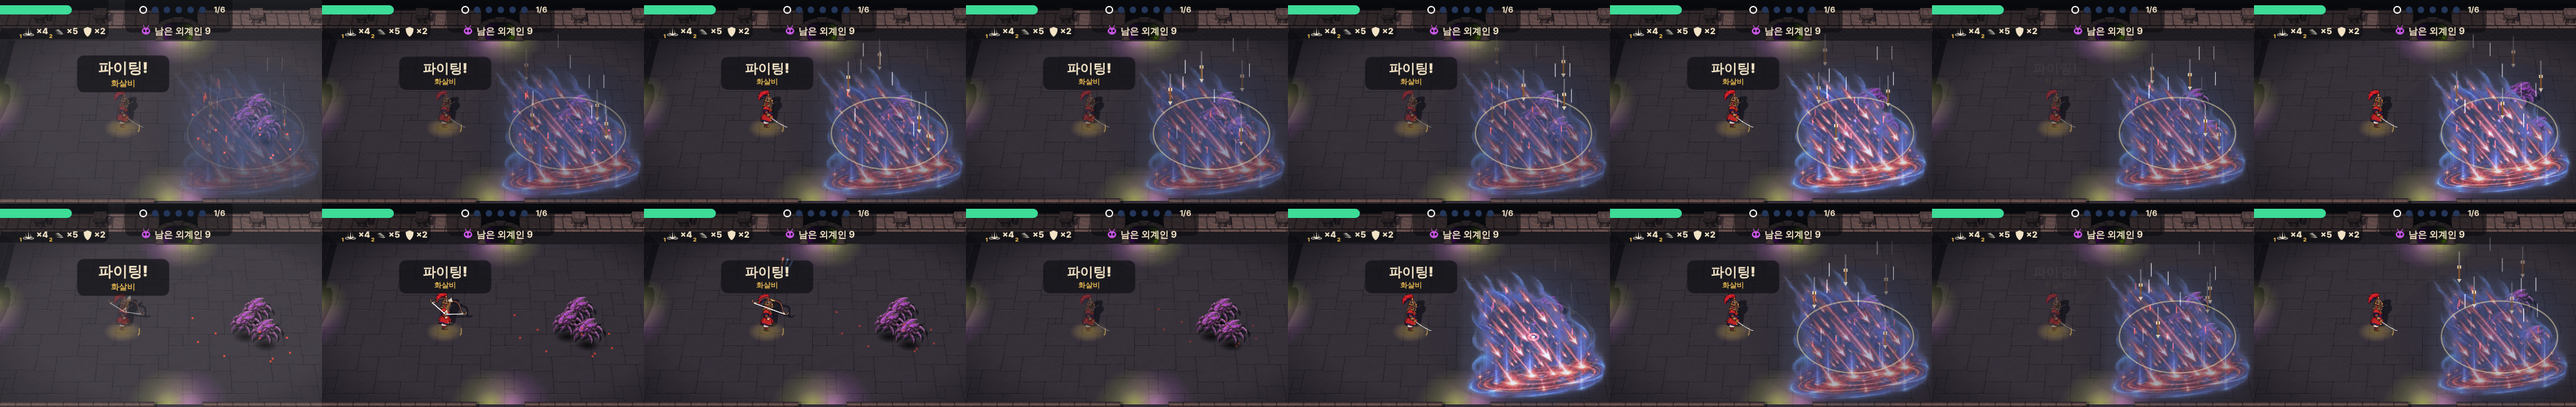
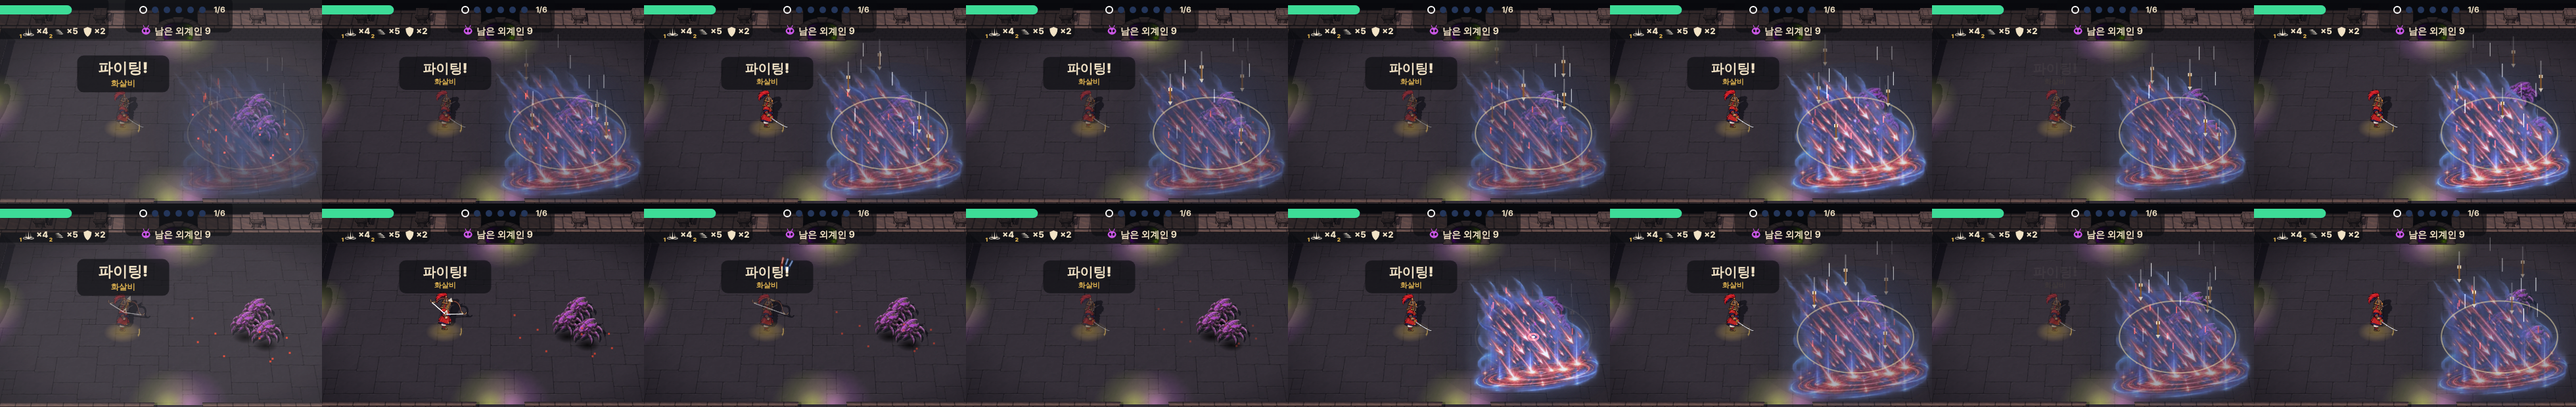
[개발팀] 시전감 디자인 대조 반영: 빛줄기 말풍선 위 층·스킬 그림 도착 톡·돌진 길 줄이기·덫 뒤 무기 톡
Claude-Session: https://claude.ai/code/session_013M9CK2UFP2bu5qUnTrTZoi

diff --git a/src/game.js b/src/game.js
@@ -879,7 +879,8 @@
     const h = G.hero, f = FIELD.floor;
     for (const tm of G.timers) { tm.t -= dt; if (tm.t <= 0 && !tm.done) { tm.done = true; tm.fn(); } }
     G.timers = G.timers.filter(tm => !tm.done);
-    if (h.cast && (h.cast.t += dt) >= h.cast.dur) h.cast = null;   // 시전 몸동작
+    if (h.cast && (h.cast.t += dt) >= h.cast.dur) { if (h.cast.k === 'throw') h.wpop = .08; h.cast = null; }   // 시전 몸동작 · 던진 뒤 무기가 손에 '톡'
+    if (h.wpop > 0) h.wpop = Math.max(0, h.wpop - dt);
     if (h.dash && h.dash.wait > 0) { h.dash.wait -= dt; h.moving = false; }   // 웅크리는 동안은 제자리 (GDD 0-20)
     else if (h.dash) {   // 돌진: 0.35초에 260 · 길 위 외계인 1번씩
       const d = h.dash, m = d.mod;
@@ -1105,7 +1106,7 @@
       if (a.seal > 0) at(a.x, a.y, () => { ctx.save(); ctx.fillStyle = SKW; for (let i = 0; i < 5; i++) { ctx.globalAlpha = .8; ctx.fillRect(a.x - 10 + i * 5, a.y - top + Math.sin(G.t * 6 + i) * 3, 2.5, 2.5); } ctx.restore(); });
       if (a.freeze > 0) at(a.x, a.y, () => { ctx.save(); ctx.globalCompositeOperation = 'lighter'; ctx.fillStyle = SKG; ctx.beginPath(); for (let i = 0; i < 10; i++) { const q = -Math.PI / 2 + i * Math.PI / 5, r = i % 2 ? 2.5 : 7; ctx.lineTo(a.x + Math.cos(q + G.t * 3) * r, a.y - top + Math.sin(q + G.t * 3) * r); } ctx.fill(); ctx.restore(); });
     }
-    for (const z of G.zones) if (z.launch === 'sky' && z.t < 0) at(z.x0, z.y0, () => drawRise(z));   // 시전감: 활에서 솟는 빛줄기
+    for (const z of G.zones) if (z.launch === 'sky' && z.t < 0) at(z.x0, z.y0, () => { z.riseM = ctx.getTransform(); });   // 빛줄기 자리(그리기는 drawRiseTop)
     for (const z of G.zones) at(z.x, z.y, () => {
       const T = SKB.ZONE_TIME, al = z.t < .2 ? z.t / .2 : z.t > T - .3 ? (T - z.t) / .3 : 1, R = SKB.ZONE_D / 2;
       ctx.save();
@@ -1187,8 +1188,9 @@
           ctx.strokeStyle = SKG; ctx.lineWidth = 2.5; gEll(x1, y1, 40 + 30 * Math.min(1, d.t / d.dur)); ctx.stroke(); ctx.restore(); return;
         }
         const wide = d.k === 'seal' ? 16 : d.k === 'focus' ? 2 : d.k === 'zigzag' ? 5 : 7;   // 핀란드 1 눈가루 띠 · 스페인 1 아주 가는 선
-        ctx.globalAlpha = (d.k === 'seal' ? .3 : .55) * fade; ctx.strokeStyle = d.k === 'seal' ? SKW : SKS; ctx.lineWidth = wide; ctx.beginPath(); p.forEach(([x, y], i) => i ? ctx.lineTo(x, y - 24) : ctx.moveTo(x, y - 24)); ctx.stroke();
-        ctx.globalAlpha = .9 * fade; ctx.strokeStyle = SKW; ctx.lineWidth = d.k === 'focus' ? 1.2 : 2; ctx.stroke();
+        const lite = feelOn(), pp = lite ? p.slice(-9) : p;   // 시전감 잔상: 최근 0.15초(약 9프레임)만 · 알파 ≤0.20
+        ctx.globalAlpha = (lite ? AFTER.TRAIL_AL : d.k === 'seal' ? .3 : .55) * fade; ctx.strokeStyle = d.k === 'seal' ? SKW : SKS; ctx.lineWidth = wide; ctx.beginPath(); pp.forEach(([x, y], i) => i ? ctx.lineTo(x, y - 24) : ctx.moveTo(x, y - 24)); ctx.stroke();
+        ctx.globalAlpha = (lite ? AFTER.TRAIL_AL : .9) * fade; ctx.strokeStyle = SKW; ctx.lineWidth = d.k === 'focus' ? 1.2 : 2; ctx.stroke();
         if (d.k === 'seal') { ctx.fillStyle = SKW; for (let i = 0; i < p.length; i += 2) { const [x, y] = p[i]; ctx.globalAlpha = .7 * fade; ctx.fillRect(x + (hash(i) - .5) * 18, y - 24 + (hash(i + 9) - .5) * 14, 2, 2); } }
         if (d.k === 'long') { const [x, y] = p[p.length - 1], a2 = Math.atan2(d.dy, d.dx); ctx.globalAlpha = .9; ctx.strokeStyle = SKG; ctx.lineWidth = 3; ctx.beginPath(); ctx.moveTo(x, y - 24); ctx.lineTo(x + Math.cos(a2) * 40, y - 24 + Math.sin(a2) * 32); ctx.stroke(); }   // 리투아니아 1: 아주 긴 창
         if (d.k === 'accel' || d.k === 'invHit') for (let i = 2; i < p.length; i += 3) {   // 폴란드 1: 양옆 깃털 선 (뒤로 갈수록 굵게)
@@ -1302,7 +1304,7 @@
       for (let rr = 0; rr < reps; rr++) {
         ctx.save();
         if (e.mode === 'burst') { const S = e.S * (reduceMotion ? 1 : .7 + .4 * Math.min(1, t / .25)); ctx.globalAlpha = .95 * fade; if (e.flat) { ctx.translate(e.x, e.y); ctx.drawImage(im, -S / 2, -S / 2 * GK(), S, S * GK()); } else { ctx.translate(e.x, e.y - 6); if (e.rot) ctx.rotate(e.ang); ctx.drawImage(im, -S / 2, -S / 2 * (e.rot ? .8 : 1), S, S * (e.rot ? .8 : 1)); } }
-        else if (e.mode === 'zone') { const z = e.z; if (z && z.t < 0) { ctx.restore(); continue; } const zx = z ? z.x : e.x, zy = z ? z.y : e.y, S = SKB.ZONE_D * 1.45, br = reduceMotion ? 1 : 1 + .04 * Math.sin(G.t * 3);
+        else if (e.mode === 'zone') { const z = e.z; if (z && z.t < 0) { ctx.restore(); continue; } const zx = z ? z.x : e.x, zy = z ? z.y : e.y, S = SKB.ZONE_D * 1.45 * (z && z.launch && z.t < .08 ? .85 + .15 * z.t / .08 : 1), br = reduceMotion ? 1 : 1 + .04 * Math.sin(G.t * 3);   // 시전감: 도착 순간 0.85→1배 0.08초
           ctx.globalAlpha = .9 * Math.min(1, t / .2) * fade * (reduceMotion ? 1 : .75 + .25 * Math.sin(G.t * Math.PI * 2)); ctx.translate(zx, zy); ctx.drawImage(im, -S * br / 2, -S * br / 2, S * br, S * br);   // 1초 주기로 숨쉬듯
           if (e.black) { ctx.globalCompositeOperation = 'lighter'; ctx.globalAlpha = .5 * fade; ctx.strokeStyle = '#8FA6C2'; ctx.lineWidth = 2.5; ctx.beginPath(); ctx.ellipse(0, 0, S * .42, S * .42 * .6, 0, 0, Math.PI * 2); ctx.stroke(); } }   // 칠레 2: 회청 테두리 빛
         else if (e.mode === 'beam' || e.mode === 'trail') {
@@ -1420,6 +1422,9 @@
     ctx.globalAlpha = 1; FX.drawShot('polearm', x, y, Math.atan2(y - py, x - px || .001), 0, G.country.key);
   }
   // 한국 1: 놓는 순간 활에서 빛줄기 3개(±8°)가 0.10초 동안 60px 솟아 화면 위로 사라져요 — 흰 심 2px + 나라 색 꼬리 16px
+  function drawRiseTop() {   // 빛줄기는 외침 말풍선보다 위 층 (style-guide 보완) · 자리는 바닥 그릴 때 잡아 둔 변환 그대로
+    for (const z of G.zones) if (z.launch === 'sky' && z.t < 0 && z.rx != null && z.riseM) { ctx.save(); ctx.setTransform(z.riseM); drawRise(z); ctx.restore(); }
+  }
   function drawRise(z) {
     const e = z.t + z.pre - FEEL_T.BOW_REL; if (e < 0 || e > .1 || z.rx == null) return;
     const k = e / .1, col = (SKILL_COL.korea || [])[0] || ['#F2452E', '#3D74D9'];
@@ -1764,7 +1769,7 @@
       case 'loading': return drawLoading();
       case 'title': return drawTitle();
       case 'select': return drawSelect();
-      case 'play': drawField(); drawHUD(); if (G.touchUI) drawControls(); drawMsgs(); drawInvTimer(); if (G.paused && !G.hold) drawPause(); return;
+      case 'play': drawField(); drawHUD(); if (G.touchUI) drawControls(); drawMsgs(); drawRiseTop(); drawInvTimer(); if (G.paused && !G.hold) drawPause(); return;
       case 'roundPanel': drawField(); drawHUD(); drawRoundPanel(); return;
       case 'ending': drawField(); drawEnding(); return;
       case 'result': return drawResult();
@@ -2409,10 +2414,11 @@
     if (tp && !dead) throwTrail(h, c, hx, hy, w.a, tp, mo.alpha);   // 잔상 2개 + 휘두름 호
     const behind = hd[2];   // 오른쪽위·위를 볼 때는 몸 뒤에
     { const L = 60 * wLen(c) * .95; h.tip = { x: hx + Math.cos(w.a) * L, y: hy + Math.sin(w.a) * L }; }   // 무기 끝 (시전 섬광 자리)
-    if (!dead && behind && !(cp && cp.hide)) drawWeapon(h, c, hx, hy, w.a, mo.alpha);
+    const dw = () => { const s2 = h.wpop > 0 ? 1 + .15 * h.wpop / .08 : 1; if (s2 === 1) return drawWeapon(h, c, hx, hy, w.a, mo.alpha); ctx.save(); ctx.translate(hx, hy); ctx.scale(s2, s2); ctx.translate(-hx, -hy); drawWeapon(h, c, hx, hy, w.a, mo.alpha); ctx.restore(); };   // 1.15→1배 0.08초
+    if (!dead && behind && !(cp && cp.hide)) dw();
     const bf = bodyFrame(h, cell);
     UI.dirBody(c.key, bf.cell, h.x, h.y, 60, bm, bf.folder);
-    if (!dead && !behind && !(cp && cp.hide)) drawWeapon(h, c, hx, hy, w.a, mo.alpha);
+    if (!dead && !behind && !(cp && cp.hide)) dw();
     return true;
   }
 

diff --git a/teams/3-개발/작업기록.md b/teams/3-개발/작업기록.md
@@ -593,3 +593,5 @@
 - 잔상 "중간"(시험 나라만): 분신은 0.075초마다 0.15초·알파 0.18이라 동시에 최대 2개, 길은 1겹·꼬리 0.15초, 바닥 긁힘은 0.3초·알파 0.2예요.
 - 아직: 덫 손 무기 '톡' 다시 나타남(1.15→1)과 활 떨림은 안 넣었어요(작음). 그을림·탄 꼬리·말발굽 예산은 시험 3개와 상관없어서 확인 뒤 넓힐 때 같이 해요.
 - 시험 `test/skillfeel.js`(cap.js 바탕): 전/후 8장 + 0.04초 간격 움짤. 자료는 review-4/skill-feel/after/. 회귀 controls·aim·phone·stick·safe·tapmove·dir8·dir16·guns·mouse·esc·hide·voice·bgm·ads2·ending·endfar·langs 통과.
+- 디자인 대조 반영: 빛줄기를 외침 말풍선 위 층에 그려요(drawRiseTop, 바닥 그릴 때의 변환을 저장해 씀). 대표 스킬 그림이 도착 순간 0.85→1배 0.08초로 나타나요. 룩셈부르크 길 흰 줄은 최근 9프레임(약 0.15초)만, 알파 0.2로 그려요. 덫 뒤 무기는 1.15→1로 '톡' 나타나요. 활 떨림(1.08→1, 0.08초)은 원래 bowM 놓기 동작에 있어서 그대로 써요.
+- 활 각도는 조준 −70°가 맞아요. 걸린 화살이 −70°를 가리키고, 활대는 조준에 수직이라 거의 눕혀 보여요(bow-zoom.png).
